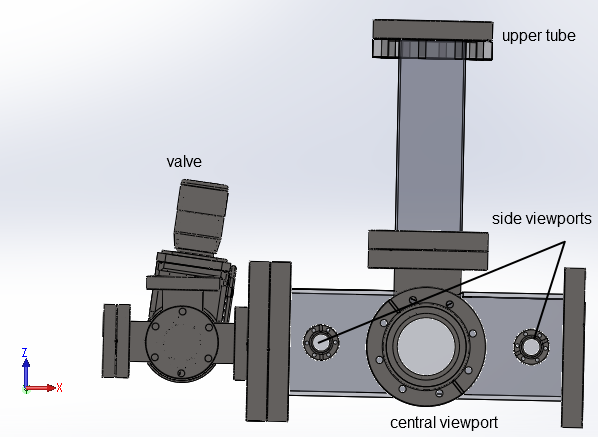
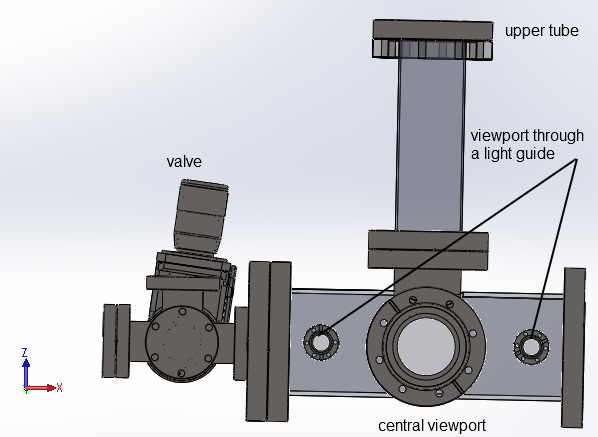
auto

diff --git a/chapters/4 - methods and results.tex b/chapters/4 - methods and results.tex
@@ -42,7 +42,7 @@ The vacuum chamber is placed inside seismic box, further reducing acoustic waves
 \FloatBarrier
 
 \par\noindent
-The vacuum chamber, shown in fig.~\ref{fig:chamber front}, is composed of two cylindrical tubes placed one over the other with three view ports in front. The chamber is connected to a vacuum engine and gauge. The vacuum engine is connected to the chamber through a valve. The measurements are conducted when the valve is closed and the engine is off, to prevent rotation noise.
+The vacuum chamber, shown in fig.~\ref{fig:chamber front}, is composed of two cylindrical tubes placed one over the other with three view ports in front and light guides. The chamber is connected to a vacuum engine and gauge. The vacuum engine is connected to the chamber through a valve. The measurements are conducted when the valve is closed and the engine is off, to prevent rotation noise.
 
 \subsubsection{Chamber viewports}
 \par\noindent
